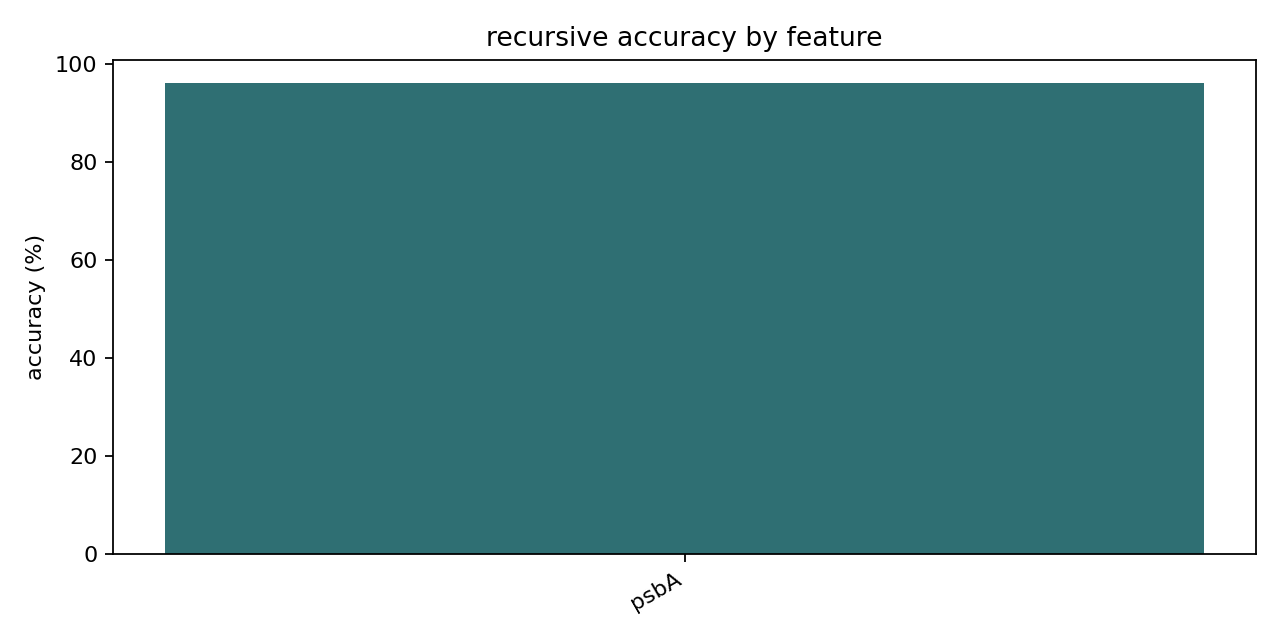
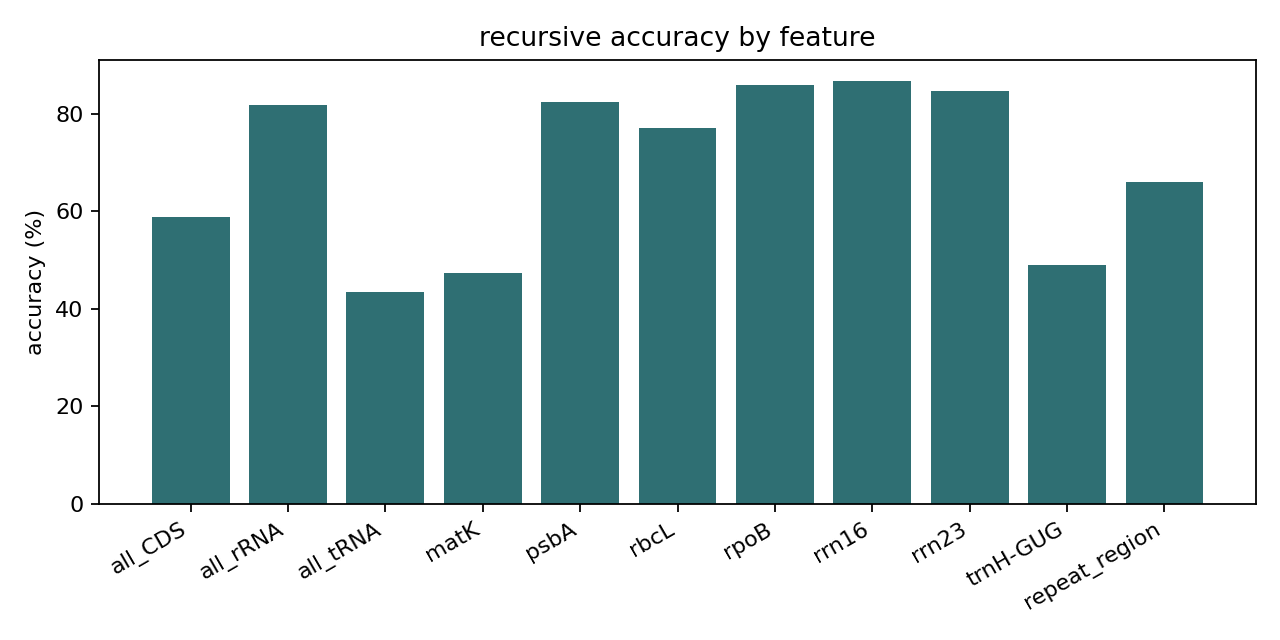
report done

diff --git a/src/biological_eval/ir.py b/src/biological_eval/ir.py
@@ -4,6 +4,7 @@ from statistics import mean
 from typing import Any
 
 import torch
+from tqdm import tqdm
 
 from src.biological_eval.config import require_keys
 from src.biological_eval.context_topk import exact_identity, parse_int_list, write_csv
@@ -63,61 +64,69 @@ def run_ir(
     records = load_panel_records(config["raw_fasta"], panel)
     model, tokenizer, device = load_model(config["checkpoint"])
     rows: list[dict[str, Any]] = []
+    tasks = []
 
     for item in panel:
         record = records.get(item["accession"])
         if record is None:
             continue
         ira, irb, boundary_source = inferred_ir_regions(record.sequence)
-        for offset in paired_offsets(ira, irb, int(config["generation_length"]), max_pairs):
-            ira_target_start = ira.start + offset
-            irb_target_start = irb.start + offset
-            ira_true = slice_sequence(record.sequence, ira_target_start, int(config["generation_length"]), True)
-            irb_true = slice_sequence(record.sequence, irb_target_start, int(config["generation_length"]), True)
-            ira_prompt = slice_sequence(
-                record.sequence,
-                ira_target_start - int(config["prompt_length"]),
-                int(config["prompt_length"]),
-                True,
+        target_length = int(config["generation_length"])
+        prompt_length = int(config["prompt_length"])
+        for offset in paired_offsets(ira, irb, target_length, max_pairs):
+            tasks.append((record, ira, irb, boundary_source, offset, target_length, prompt_length))
+
+    for record, ira, irb, boundary_source, offset, target_length, prompt_length in tqdm(
+        tasks, desc="IR pairs", unit="pair"
+    ):
+        ira_target_start = ira.start + offset
+        irb_target_start = irb.start + (irb.length - offset - target_length)
+        ira_true = slice_sequence(record.sequence, ira_target_start, target_length, True)
+        irb_true = slice_sequence(record.sequence, irb_target_start, target_length, True)
+        ira_prompt = slice_sequence(
+            record.sequence,
+            ira_target_start - prompt_length,
+            prompt_length,
+            True,
+        )
+        irb_prompt = slice_sequence(
+            record.sequence,
+            irb_target_start - prompt_length,
+            prompt_length,
+            True,
+        )
+        true_ir_identity = exact_identity(ira_true, reverse_complement(irb_true))
+        for seed in seeds:
+            ira_generated = generate_suffix(
+                model,
+                tokenizer,
+                device,
+                ira_prompt,
+                target_length,
+                seed,
+                temperature,
             )
-            irb_prompt = slice_sequence(
-                record.sequence,
-                irb_target_start - int(config["prompt_length"]),
-                int(config["prompt_length"]),
-                True,
+            irb_generated = generate_suffix(
+                model,
+                tokenizer,
+                device,
+                irb_prompt,
+                target_length,
+                seed,
+                temperature,
             )
-            true_ir_identity = exact_identity(ira_true, reverse_complement(irb_true))
-            for seed in seeds:
-                ira_generated = generate_suffix(
-                    model,
-                    tokenizer,
-                    device,
-                    ira_prompt,
-                    int(config["generation_length"]),
-                    seed,
-                    temperature,
-                )
-                irb_generated = generate_suffix(
-                    model,
-                    tokenizer,
-                    device,
-                    irb_prompt,
-                    int(config["generation_length"]),
-                    seed,
-                    temperature,
-                )
-                rows.append(
-                    {
-                        "accession": record.accession,
-                        "boundary_source": boundary_source,
-                        "offset": offset,
-                        "seed": seed,
-                        "true_ir_identity_percent": f"{true_ir_identity:.2f}",
-                        "generated_ir_identity_percent": f"{exact_identity(ira_generated, reverse_complement(irb_generated)):.2f}",
-                        "ira_identity_to_true_percent": f"{exact_identity(ira_generated, ira_true):.2f}",
-                        "irb_identity_to_true_percent": f"{exact_identity(irb_generated, irb_true):.2f}",
-                    }
-                )
+            rows.append(
+                {
+                    "accession": record.accession,
+                    "boundary_source": boundary_source,
+                    "offset": offset,
+                    "seed": seed,
+                    "true_ir_identity_percent": f"{true_ir_identity:.2f}",
+                    "generated_ir_identity_percent": f"{exact_identity(ira_generated, reverse_complement(irb_generated)):.2f}",
+                    "ira_identity_to_true_percent": f"{exact_identity(ira_generated, ira_true):.2f}",
+                    "irb_identity_to_true_percent": f"{exact_identity(irb_generated, irb_true):.2f}",
+                }
+            )
 
     detail_path = Path(output_dir) / "ir_eval.csv"
     write_csv(detail_path, rows)

diff --git a/reports/plastid_s4d_evaluation.md b/reports/plastid_s4d_evaluation.md
@@ -16,25 +16,37 @@ The checkpoint is the 16.57M-parameter S4D-v2 model trained with 1,024-base cont
 
 | decoding_mode | seed | rows | avg_accuracy_percent | min_accuracy_percent | max_accuracy_percent | avg_gc_difference_percent | max_longest_generated_run | runs_over_20 | n_count |
 | --- | --- | --- | --- | --- | --- | --- | --- | --- | --- |
-| sampled | 13 | 2 | 96.00 | 95.90 | 96.09 | 0.88 | 5 | 0 | 0 |
+| sampled | 13 | 4101 | 50.69 | 19.53 | 100.00 | 10.09 | 17 | 0 | 0 |
 
 ## Genome-region results
 
 | accession | group | exposure | decoding_mode | seed | region | rows | avg_accuracy_percent | min_accuracy_percent | max_accuracy_percent | avg_gc_difference_percent | max_longest_generated_run | runs_over_20 | n_count |
 | --- | --- | --- | --- | --- | --- | --- | --- | --- | --- | --- | --- | --- | --- |
-| NC_053550.1 | Rosa | decoding-development | sampled | 13 | LSC | 2 | 96.00 | 95.90 | 96.09 | 0.88 | 5 | 0 | 0 |
+| NC_023110.1 | Sunflower | validation | sampled | 13 | IRA | 94 | 66.10 | 24.02 | 99.80 | 2.94 | 10 | 0 | 0 |
+| NC_023110.1 | Sunflower | validation | sampled | 13 | IRB | 95 | 68.54 | 23.83 | 99.80 | 3.58 | 15 | 0 | 0 |
+| NC_023110.1 | Sunflower | validation | sampled | 13 | LSC | 393 | 44.15 | 23.63 | 97.85 | 13.32 | 17 | 0 | 0 |
+| NC_023110.1 | Sunflower | validation | sampled | 13 | boundary | 8 | 52.12 | 33.01 | 86.72 | 8.33 | 14 | 0 | 0 |
+| NC_027476.1 | Grass | validation | sampled | 13 | IRA | 80 | 52.51 | 23.63 | 98.44 | 7.36 | 10 | 0 | 0 |
 
 ## CDS, tRNA, and rRNA results
 
 | accession | feature_label | feature_type | rows | avg_accuracy_percent | avg_aa_identity_percent | internal_stop_codons | total_overlap_bases |
 | --- | --- | --- | --- | --- | --- | --- | --- |
-| NC_053550.1 | psbA | CDS | 2 | 96.00 | 90.00 | 15 | 1024 |
+| NC_023110.1 | all_CDS | CDS | 461 | 52.45 | 30.83 | 1361 | 140154 |
+| NC_023110.1 | all_rRNA | rRNA | 12 | 51.95 |  |  | 1094 |
+| NC_023110.1 | all_tRNA | tRNA | 95 | 38.95 |  |  | 5276 |
+| NC_023110.1 | matK | CDS | 7 | 44.56 | 18.90 | 37 | 3006 |
+| NC_023110.1 | psbA | CDS | 6 | 70.73 | 100.00 | 0 | 1860 |
 
 ## Inverted-repeat results
 
 | accession | rows | avg_true_ir_identity_percent | avg_generated_ir_identity_percent | avg_ira_identity_to_true_percent | avg_irb_identity_to_true_percent |
 | --- | --- | --- | --- | --- | --- |
-| NC_053550.1 | 2 | 24.02 | 26.56 | 41.02 | 66.60 |
+| NC_023110.1 | 20 | 100.00 | 56.13 | 69.39 | 67.09 |
+| NC_027476.1 | 20 | 100.00 | 34.77 | 43.68 | 48.54 |
+| NC_030275.1 | 20 | 100.00 | 48.60 | 70.61 | 65.38 |
+| NC_030377.1 | 20 | 100.00 | 37.78 | 49.65 | 46.96 |
+| NC_038102.1 | 20 | 100.00 | 51.84 | 65.31 | 67.33 |
 
 ## Context-length and top-k results
 
@@ -42,6 +54,9 @@ The checkpoint is the 16.57M-parameter S4D-v2 model trained with 1,024-base cont
 | --- | --- | --- | --- | --- | --- | --- | --- |
 | NC_053550.1 | 512 | 512 | 96.68 | 99.80 | 0.9517 | 25.20 | T |
 | NC_053550.1 | 768 | 512 | 96.48 | 100.00 | 0.9514 | 22.27 | T |
+| NC_053550.1 | 1024 | 512 | 95.70 | 99.80 | 0.9449 | 21.88 | T |
+| NC_053550.1 | 1280 | 512 | 84.77 | 94.34 | 0.7982 | 29.88 | T |
+| NC_053550.1 | 1536 | 512 | 79.30 | 91.80 | 0.7134 | 32.42 | T |
 
 Context-length outputs are stored in ignored CSV files under `outputs/plastid_biological_eval/` because they include generated sequences.
 
